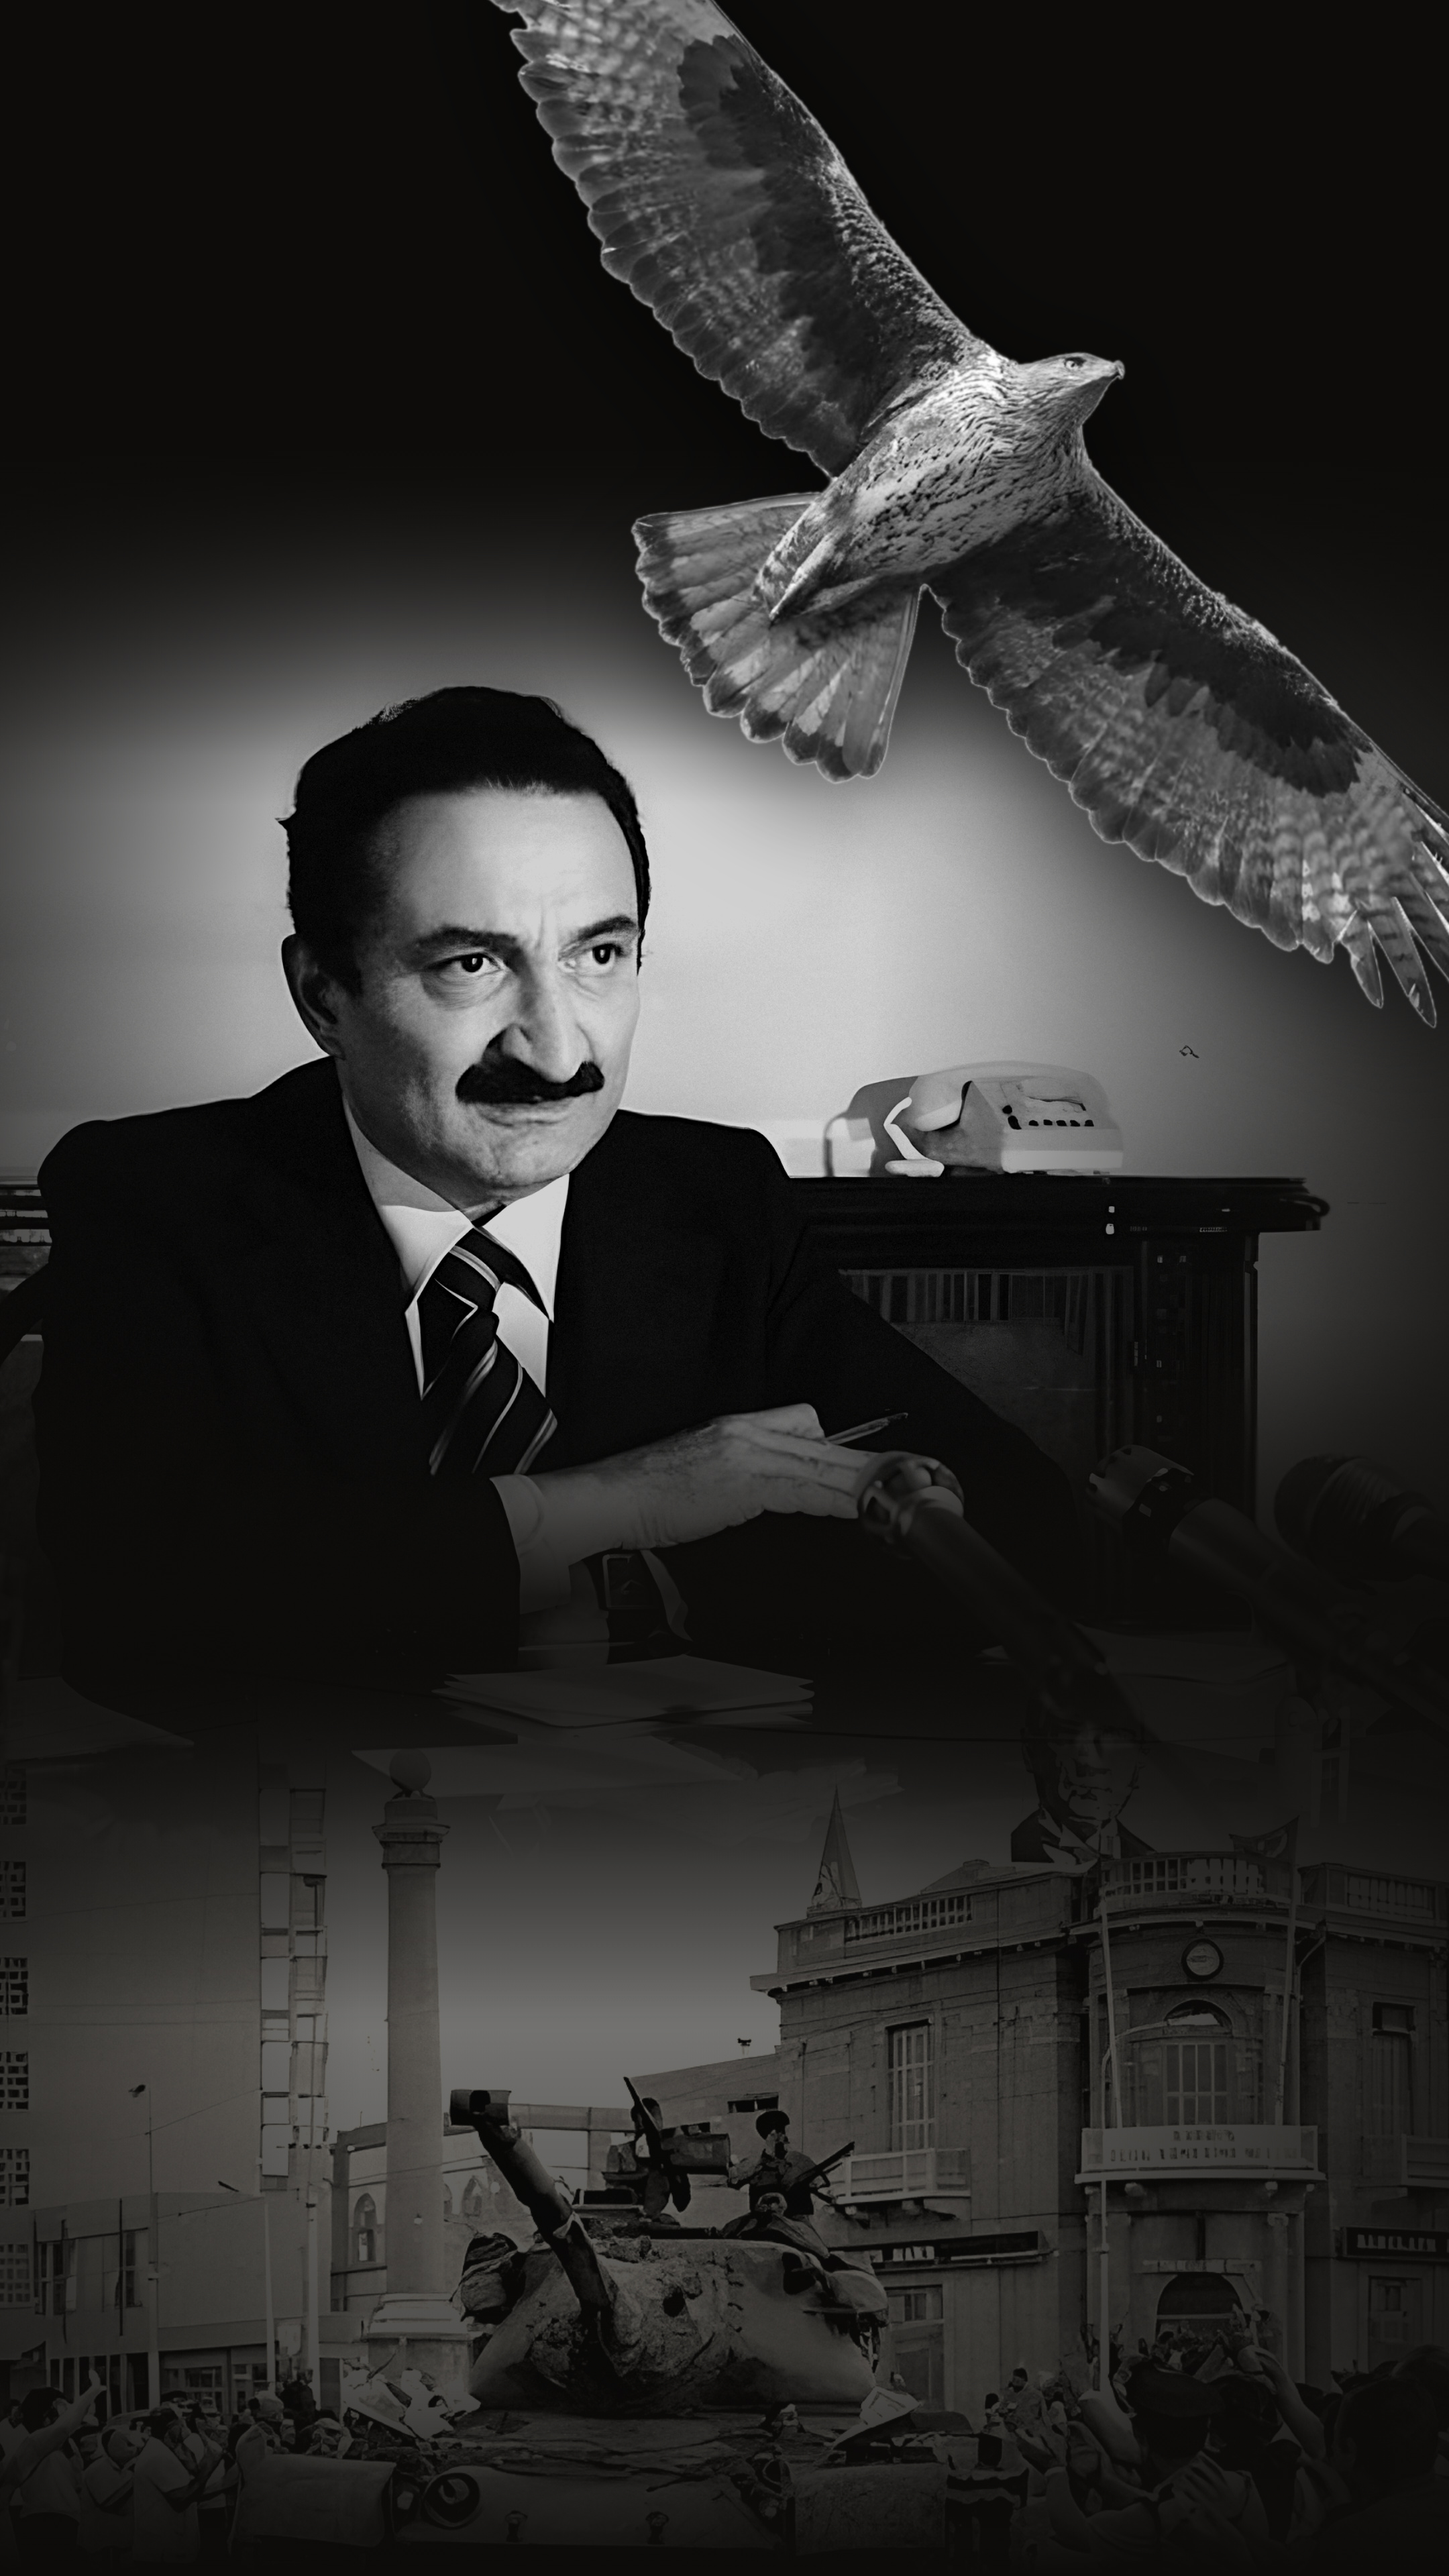
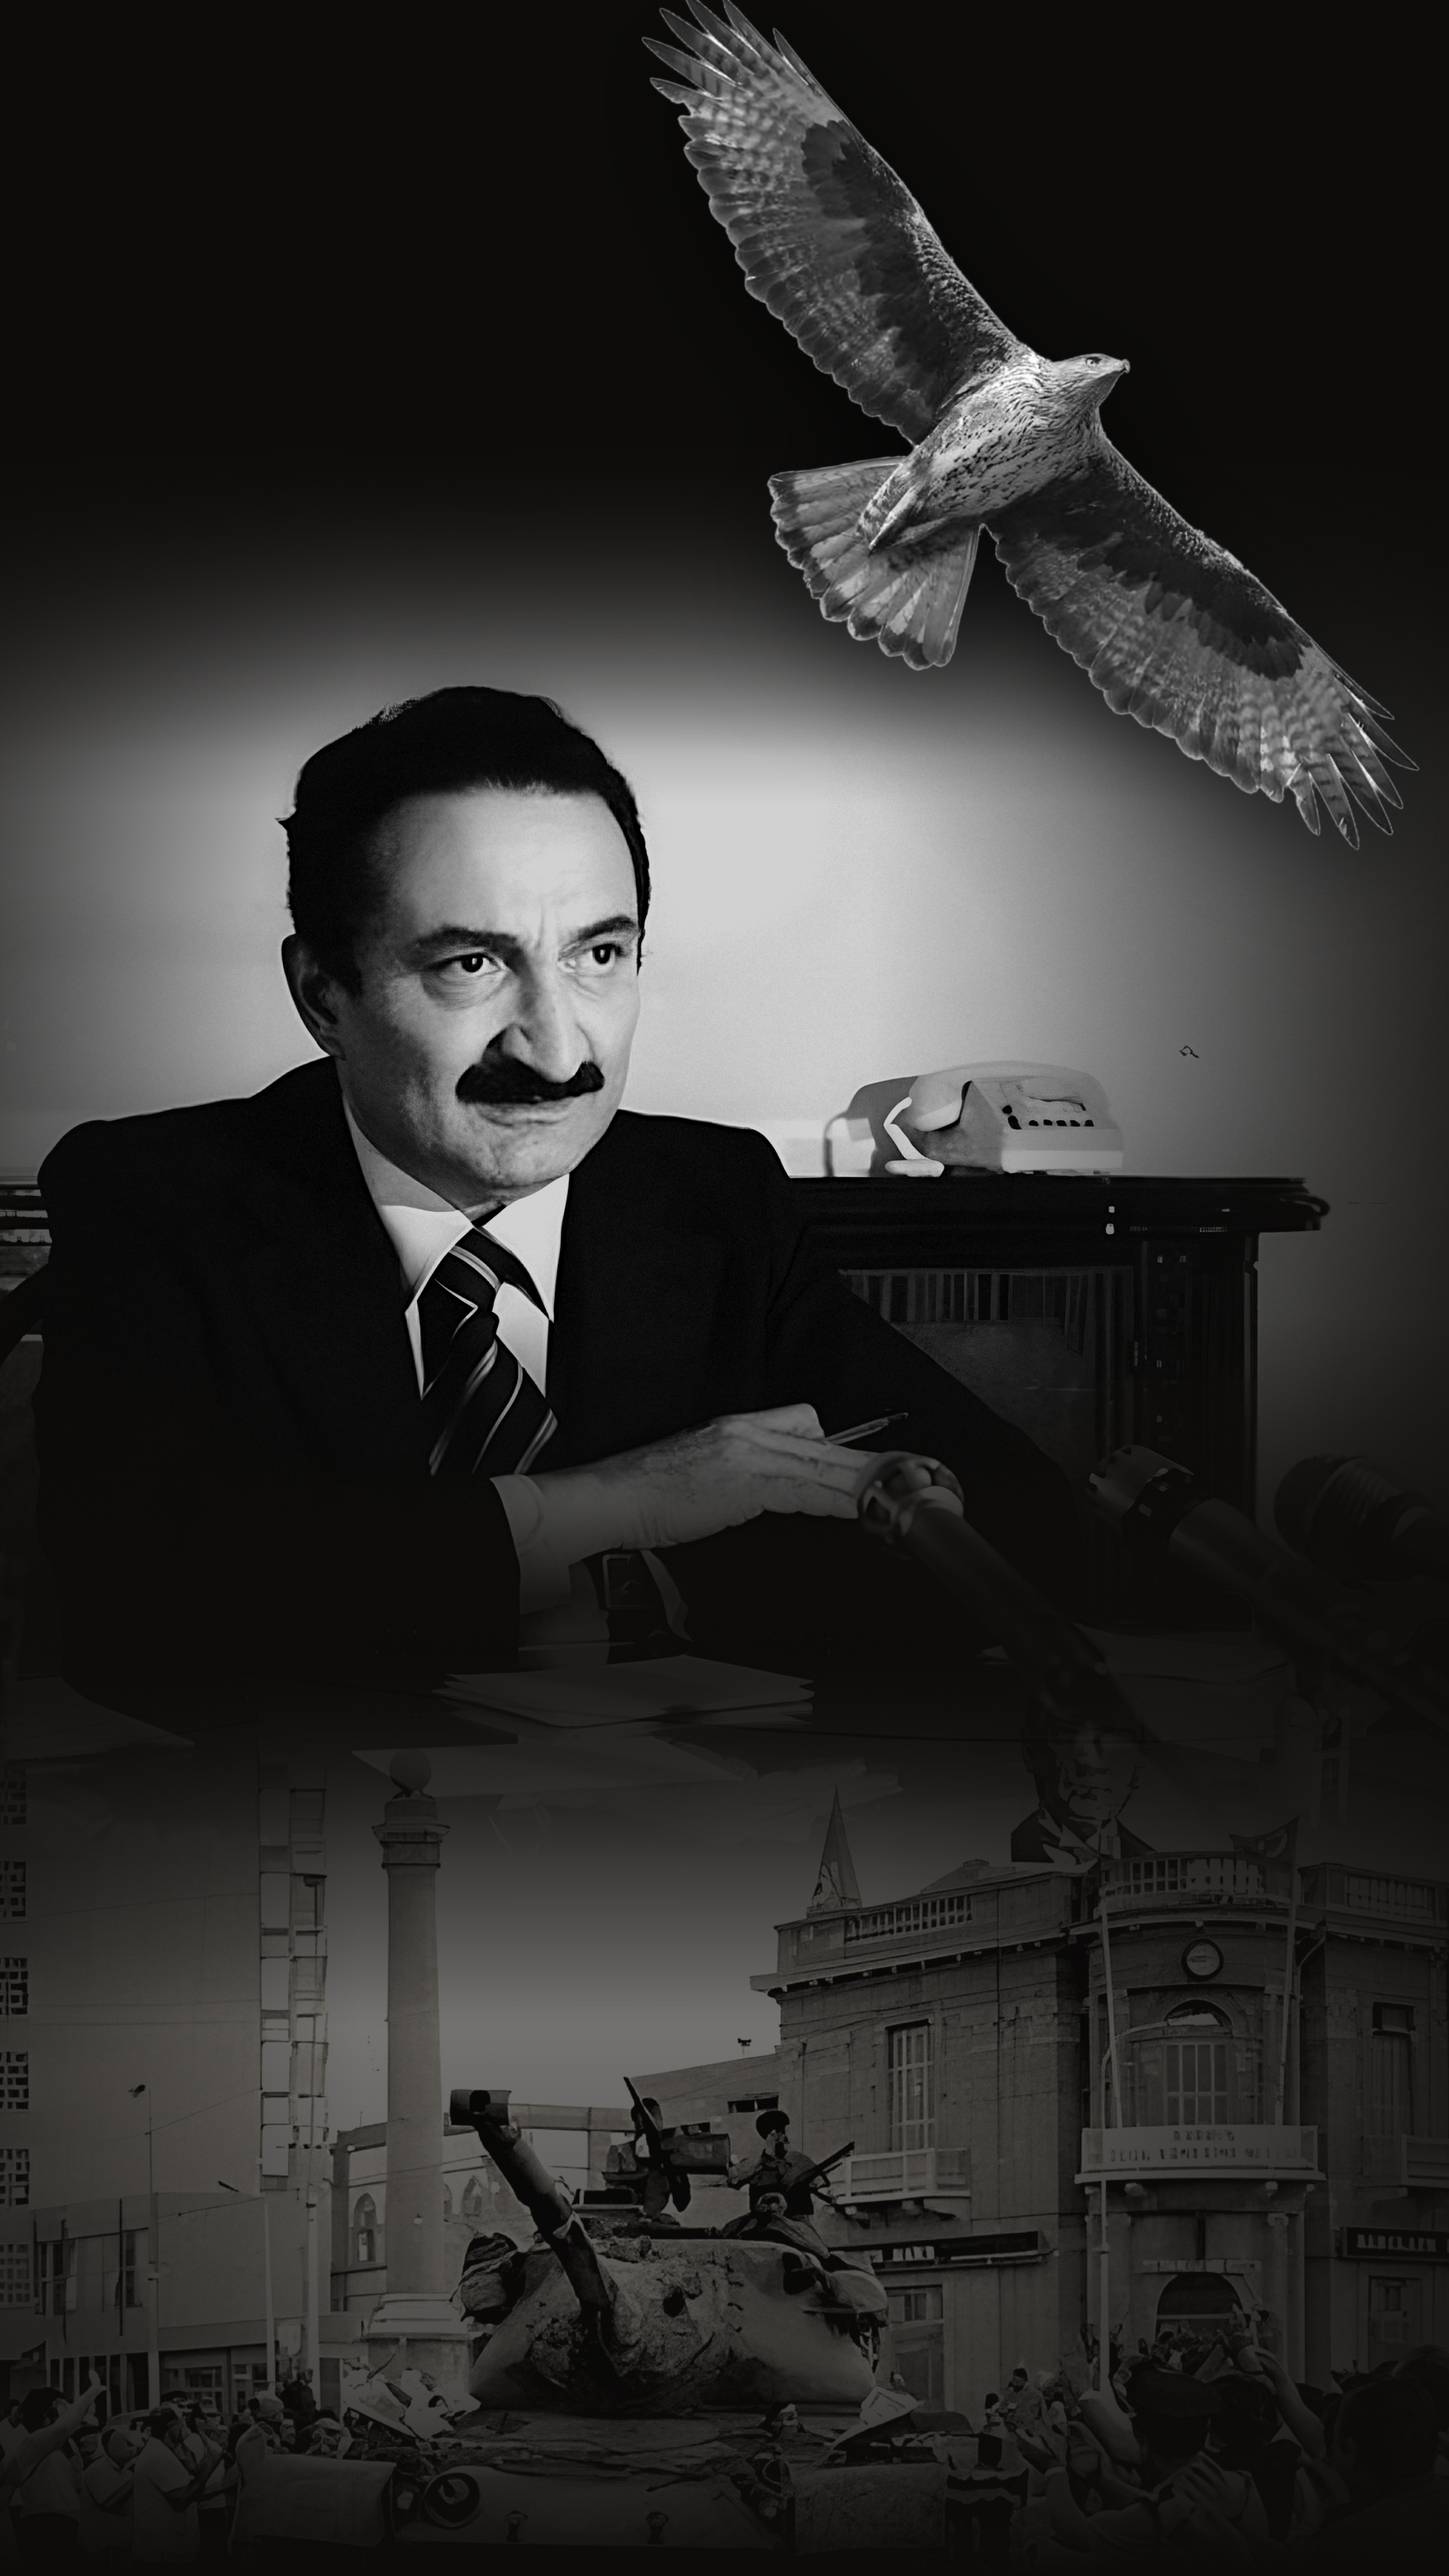
Ecevit story: kartal küçültüldü
Claude-Session: https://claude.ai/code/session_01SatttGbgBLoCnk9KGLypWv

Changed region(s): [[0.3412, 0.0, 1.0, 0.4062]]

diff --git a/tasarim/kisisel/ecevit-kibris/gorsel.html b/tasarim/kisisel/ecevit-kibris/gorsel.html
@@ -6,7 +6,7 @@ html,body{margin:0;width:1080px;height:1920px;overflow:hidden;background:#0d0c0b
  linear-gradient(180deg,#0d0c0b 0,#0d0c0b 300px,rgba(13,12,11,.6) 430px,rgba(13,12,11,0) 600px,rgba(13,12,11,0) 980px,rgba(13,12,11,.88) 1190px,rgba(13,12,11,.25) 1360px,rgba(13,12,11,0) 1500px,rgba(13,12,11,.4) 1780px,#0d0c0b 1920px),
  linear-gradient(90deg,rgba(13,12,11,.55) 0,rgba(13,12,11,0) 25%,rgba(13,12,11,0) 60%,rgba(13,12,11,.75)),
  radial-gradient(700px 520px at 470px 760px,rgba(13,12,11,0) 40%,rgba(13,12,11,.55))}
-.kartal{position:absolute;left:400px;top:-150px;width:680px;transform:rotate(-8deg);filter:drop-shadow(0 20px 40px rgba(0,0,0,.6))}
+.kartal{position:absolute;left:520px;top:-40px;width:500px;transform:rotate(-8deg);filter:drop-shadow(0 20px 40px rgba(0,0,0,.6))}
 </style><body>
 <img class="tank" src="tank-sb.jpg">
 <img class="ecv" src="ecevit-sb.png">
